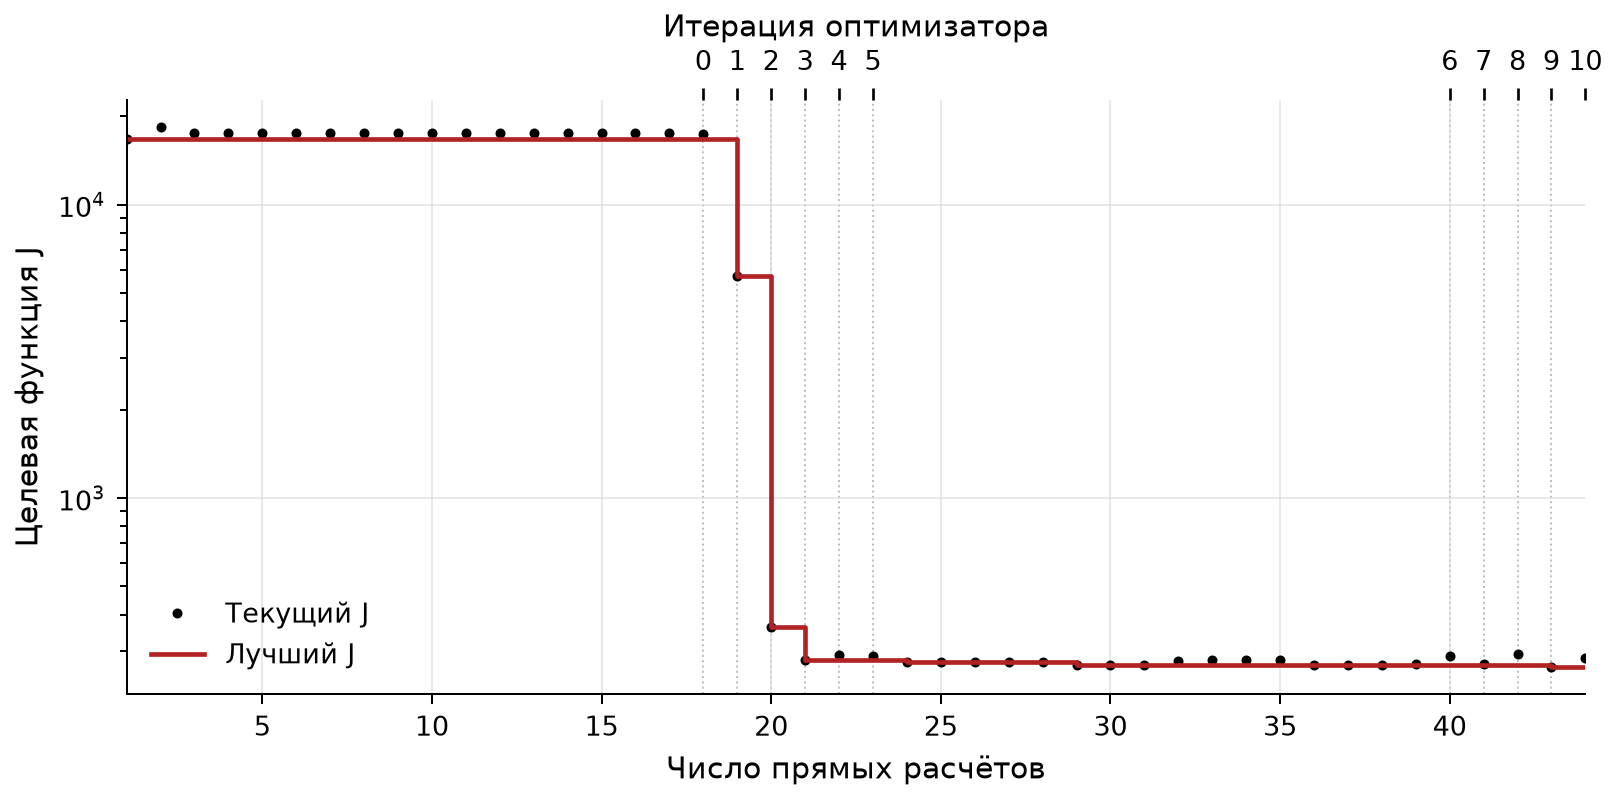
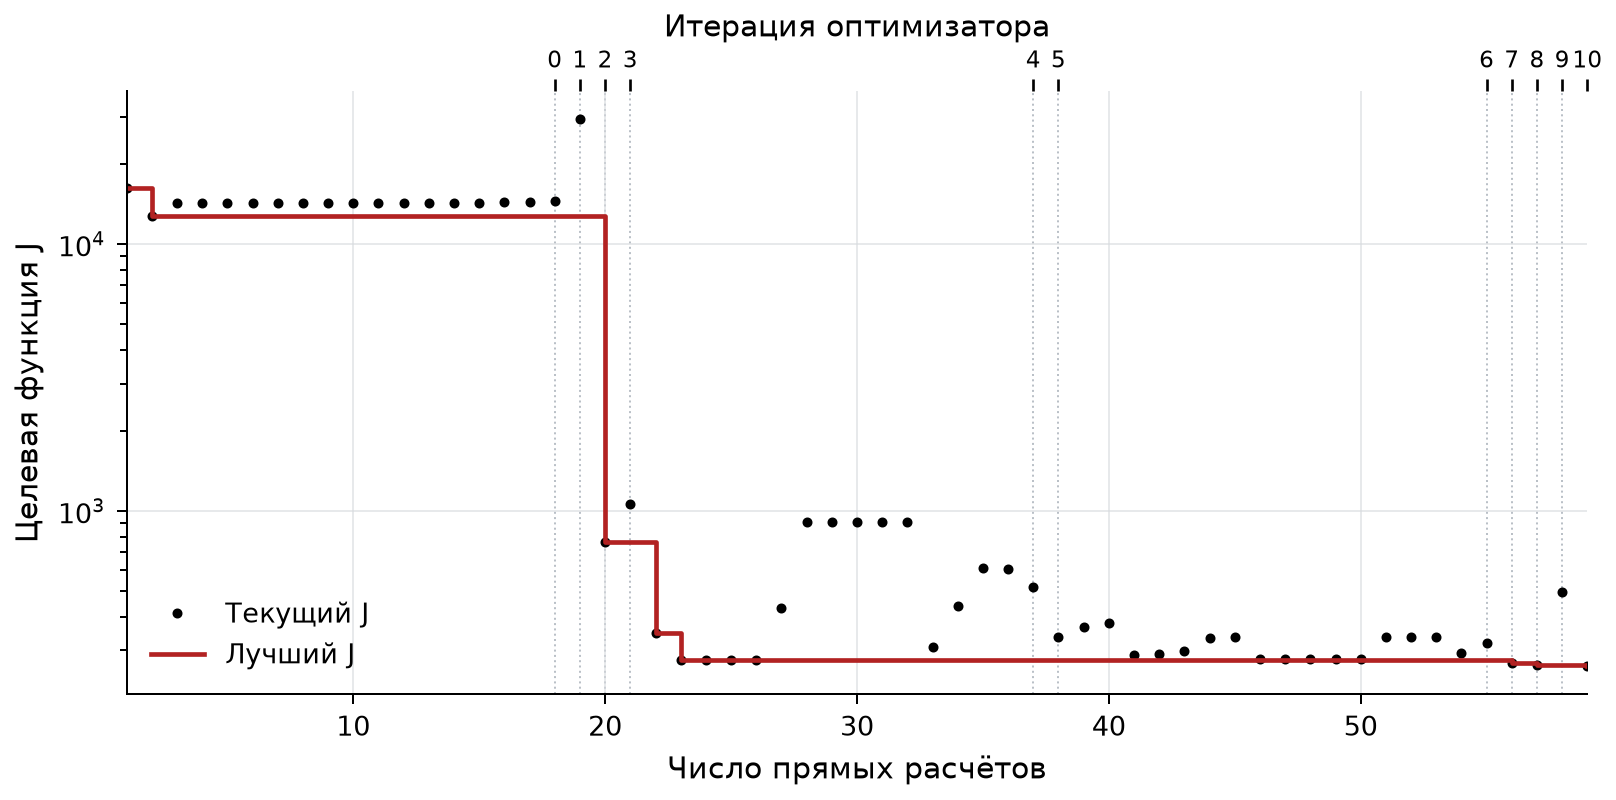
docs(report): update figures to repeat .appimage results

diff --git a/docs/report/inputs/05_applications.tex b/docs/report/inputs/05_applications.tex
@@ -31,13 +31,13 @@
 
 \reportfigure{18_inverse_flux.png} {История базального потока в обратной задаче Модели~3. Синяя линия обозначает начальное приближение, красная~--- восстановленный поток. Точками отмечены значения на возрастах конфигураций, между которыми выполняется линейная интерполяция.} {fig:inverse-q}
 
-При ограничении в 10~итераций выполнены 44~прямых расчёта и получено минимальное значение функционала $J=265{,}883$. Изменение функционала показано на рис.~\ref{fig:optimization}, где число прямых расчётов сопоставлено с итерациями метода оптимизации, причём начальное построение локальных приближений невязок требует 18~вычислений.
+При ограничении в 10~итераций выполнено 59~прямых расчётов и получено минимальное значение функционала $J=261{,}217$. Изменение функционала показано на рис.~\ref{fig:optimization}, где число прямых расчётов сопоставлено с итерациями метода оптимизации, причём начальное построение локальных приближений невязок требует 18~вычислений.
 
 \reportfigure{19_inverse_objective.png} {Изменение целевой функции при решении обратной задачи Модели~3. Чёрные точки обозначают значения для пробных наборов параметров, красная линия~--- минимальное значение среди уже рассмотренных наборов. Нижняя шкала показывает число прямых расчётов, верхняя~--- завершённые итерации оптимизационного метода.} {fig:optimization}
 
-Найденный поток проверяется дополнительным прямым расчётом с вертикальным шагом $\Delta z=50$~м при прежних $\Delta x$ и $\Delta t$, без повторного подбора параметров. В этом расчёте получены $J_T=205{,}898$ и $J_{R_o}=55{,}608$, в сумме $J=261{,}506$, а результаты используются для последующего сравнения с наблюдениями.
+Поля и значения в скважинах при найденном потоке рассчитываются на той же сетке, на которой выполнялся подбор параметров. Получены $J_T=210{,}137$ и $J_{R_o}=51{,}079$, в сумме $J=261{,}217$.
 
-На рис.~\ref{fig:wells-temperature} и~\ref{fig:wells-ro} сопоставлены профили при начальном и восстановленном потоках с измерениями и интервалами их погрешности $\pm2\%$. Оба расчёта выполнены на сетке $200\times50$~м, а количественное сравнение для группы из $N_{\mathrm{obs}}$~наблюдений проводится по среднеквадратичной относительной невязке
+На рис.~\ref{fig:wells-temperature} и~\ref{fig:wells-ro} сопоставлены профили при начальном и восстановленном потоках с измерениями и интервалами их погрешности $\pm2\%$. Оба расчёта выполнены на сетке $200\times100$~м, а количественное сравнение для группы из $N_{\mathrm{obs}}$~наблюдений проводится по среднеквадратичной относительной невязке
 \begin{equation}
  \varepsilon_{\mathrm{rms}}(u) = 100\left[
  \frac{1}{N_{\mathrm{obs}}}\sum_j
@@ -46,7 +46,7 @@
  \qquad u \in \{T_C,R_o\}.
  \label{eq:rms-residual}
 \end{equation}
-При восстановленном потоке в интервалы погрешности попадают 456 из 500~температур и 39 из 50~значений отражательной способности, среднеквадратичные относительные невязки составляют 1,283 и 2,109\%, а максимальные~--- 6,743 и 6,907\% соответственно. Распределение невязок по скважинам приведено в табл.~\ref{tab:wells}, где наибольшее среднеквадратичное отклонение температуры получено в скважине~A, а отражательной способности~--- в скважинах~D и E.
+При восстановленном потоке в интервалы погрешности попадают 457 из 500~температур и 41 из 50~значений отражательной способности, среднеквадратичные относительные невязки составляют 1,297 и 2,021\%, а максимальные~--- 6,876 и 6,766\% соответственно. Распределение невязок по скважинам приведено в табл.~\ref{tab:wells}, где наибольшее среднеквадратичное отклонение температуры получено в скважине~A, а отражательной способности~--- в скважинах~D и E.
 
 \reportfigure{20_wells_temperature.png} {Сравнение расчётных и измеренных температур в скважинах Модели~3. (а)--(д) скважины~A--E соответственно. Синие линии показывают расчёт при начальном потоке, красные~--- при восстановленном потоке, чёрные точки~--- измерения. Серая полоса соответствует принятой погрешности измерений $\pm2\%$.} {fig:wells-temperature}
 \reportfigure{21_wells_reflectance.png} {Сравнение расчётной и измеренной отражательной способности витринита в скважинах Модели~3. (а)--(д) скважины~A--E соответственно. Синие линии показывают расчёт при начальном потоке, красные~--- при восстановленном потоке, чёрные точки~--- измерения. Серая полоса соответствует принятой погрешности измерений $\pm2\%$.} {fig:wells-ro}
@@ -54,9 +54,9 @@
 
 \subsection{Влияние сетки и шага по времени}
 
-Влияние параметров дискретизации оценивается при фиксированном восстановленном потоке относительно расчёта с $\Delta x=200$~м, $\Delta z=50$~м, $\Delta t=1$~млн~лет и $\varepsilon=0{,}05$~м. В каждом дополнительном расчёте изменяется один параметр, а различия полей определяются в точках наблюдений (табл.~\ref{tab:sensitivity}).
+Влияние параметров дискретизации оценивается при фиксированном восстановленном потоке относительно расчёта с $\Delta x=200$~м, $\Delta z=100$~м, $\Delta t=1$~млн~лет и $\varepsilon=0{,}05$~м. В каждом дополнительном расчёте изменяется один параметр, а различия полей определяются в точках наблюдений (табл.~\ref{tab:sensitivity}).
 
-Уменьшение вертикального шага до 25~м изменяет температуру не более чем на 0,162\%, отражательную способность~--- на 0,147\%, а уменьшение временного шага до 0,25~млн~лет приводит к изменениям не более 0,00160 и 0,1191\% соответственно. При изменении минимальной высоты ячеек от 0,01 до 0,1~м различия температуры остаются в пределах 0,001\%, отражательной способности~--- 0,021\%, что показывает слабое влияние этого параметра на полученный результат.
+Уменьшение вертикального шага до 25~м изменяет температуру не более чем на 0,361\%, отражательную способность~--- на 0,545\%, а уменьшение временного шага до 0,25~млн~лет приводит к изменениям не более 0,00380 и 0,0103\% соответственно. При изменении минимальной высоты ячеек от 0,01 до 0,1~м различия температуры остаются в пределах 0,00043\%, отражательной способности~--- 0,0118\%, что показывает слабое влияние этого параметра на полученный результат.
 
 \input{inputs/tables/sensitivity}
 

diff --git a/docs/report/inputs/00_conclusion.tex b/docs/report/inputs/00_conclusion.tex
@@ -10,4 +10,4 @@
 
 Верификация на изготовленных решениях подтверждает сходимость, близкую ко второму порядку по пространству на гладких полях, а при уменьшении пространственных шагов вдвое и временного вчетверо ошибка снижается в 3,99--4,00~раза на неподвижном и движущемся слоях. Для наклонного контакта разнородных материалов установлен порядок около первого и показано повышение точности при уменьшении вертикального шага. В обратной задаче с синтетическими наблюдениями современные поля воспроизведены с максимальными относительными невязками 0,0029\% для температуры и 0,0391\% для отражательной способности, а различия полей в предшествующих конфигурациях количественно оценены по всему разрезу.
 
-Для Модели~1 относительные нормы различий средних по слоям температуры и отражательной способности с эталонным решением за все конфигурации равны 2,803 и 1,859\%. В Модели~3 за 10~итераций и 44~прямых расчёта найден поток, который в расчёте на более мелкой сетке согласует в пределах 2\% 456 из 500~температур и 39 из 50~значений отражательной способности. Среднеквадратичные относительные невязки составляют 1,283 и 2,109\%, а дополнительные расчёты показывают малое изменение полученных полей при уменьшении сеточных и временного шагов.
+Для Модели~1 относительные нормы различий средних по слоям температуры и отражательной способности с эталонным решением за все конфигурации равны 2,803 и 1,859\%. В Модели~3 за 10~итераций и 59~прямых расчётов найден поток, согласующий на сетке подбора в пределах 2\% 457 из 500~температур и 41 из 50~значений отражательной способности. Среднеквадратичные относительные невязки составляют 1,297 и 2,021\%, а дополнительные расчёты показывают малое изменение полученных полей при уменьшении сеточных и временного шагов.

diff --git a/docs/report/inputs/00_referat.tex b/docs/report/inputs/00_referat.tex
@@ -22,4 +22,4 @@
 
 Методом изготовленных решений получена сходимость, близкая ко второму порядку по пространству на гладких стационарных полях, а на неподвижном и движущемся слоях подтверждено ожидаемое снижение ошибки при сгущении сетки и уменьшении временного шага. По синтетическим наблюдениям восстановлены современные поля с максимальными относительными невязками 0,0029\% для температуры и 0,0391\% для отражательной способности.
 
-При сравнении Модели~1 с эталоном относительные нормы различий средних по слоям за все конфигурации составляют 2,803\% для температуры и 1,859\% для отражательной способности. В Модели~3 восстановленный поток согласует в пределах погрешности $\pm2\%$ 456 из 500~температур и 39 из 50~значений отражательной способности в пяти скважинах.
+При сравнении Модели~1 с эталоном относительные нормы различий средних по слоям за все конфигурации составляют 2,803\% для температуры и 1,859\% для отражательной способности. В Модели~3 восстановленный поток согласует в пределах погрешности $\pm2\%$ 457 из 500~температур и 41 из 50~значений отражательной способности в пяти скважинах.

diff --git a/docs/report/inputs/tables/sensitivity.tex b/docs/report/inputs/tables/sensitivity.tex
@@ -5,12 +5,12 @@
 \toprule
 Параметр & Значение & $T$, \% & $R_o$, \% \\
 \midrule
-$\Delta z$, м & 25 & 0,16112 & 0,14695 \\
-$\Delta z$, м & 100 & 0,25356 & 0,39488 \\
-$\Delta t$, млн~лет & 0,25 & 0,00160 & 0,11908 \\
-$\Delta t$, млн~лет & 0,5 & 0,00133 & 0,11930 \\
-$\varepsilon$, м & 0,01 & 0,00070 & 0,01585 \\
-$\varepsilon$, м & 0,1 & 0,00087 & 0,02004 \\
+$\Delta z$, м & 25 & 0,36021 & 0,54472 \\
+$\Delta z$, м & 50 & 0,25422 & 0,39800 \\
+$\Delta t$, млн~лет & 0,25 & 0,00380 & 0,01025 \\
+$\Delta t$, млн~лет & 0,5 & 0,00244 & 0,00809 \\
+$\varepsilon$, м & 0,01 & 0,00034 & 0,00940 \\
+$\varepsilon$, м & 0,1 & 0,00043 & 0,01175 \\
 \bottomrule
 \end{tabular}
 \end{table}

diff --git a/docs/report/inputs/tables/wells.tex b/docs/report/inputs/tables/wells.tex
@@ -8,11 +8,11 @@
 \cmidrule(lr){2-3}\cmidrule(lr){4-5}
  & В пределах 2\% & $\varepsilon_{\mathrm{rms}}$, \% & В пределах 2\% & $\varepsilon_{\mathrm{rms}}$, \% \\
 \midrule
-A & 79/100 & 2,017 & 10/10 & 0,930 \\
-B & 94/100 & 0,996 & 10/10 & 1,148 \\
-C & 94/100 & 1,081 & 10/10 & 0,382 \\
-D & 95/100 & 0,939 & 7/10 & 2,565 \\
-E & 94/100 & 1,061 & 2/10 & 3,652 \\
+A & 79/100 & 2,080 & 10/10 & 1,073 \\
+B & 94/100 & 0,979 & 10/10 & 1,111 \\
+C & 94/100 & 1,073 & 10/10 & 0,466 \\
+D & 95/100 & 0,922 & 8/10 & 2,458 \\
+E & 95/100 & 1,058 & 3/10 & 3,433 \\
 \bottomrule
 \end{tabular}
 \end{table}
